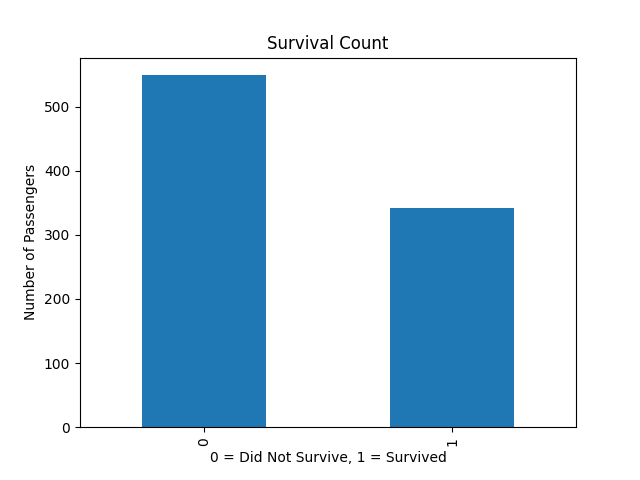
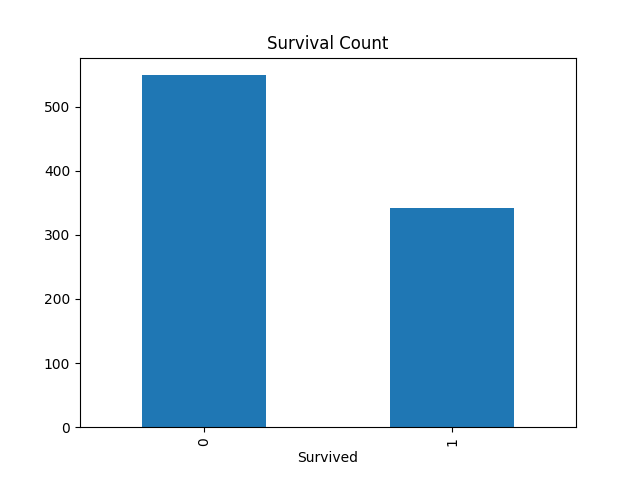
Add files via upload
Data Visualization

Changed region(s): [[0.3125, 0.9375, 0.7188, 0.9688], [0.0312, 0.3438, 0.0625, 0.6875]]

diff --git a/visualization.py b/visualization.py
@@ -1,0 +1,39 @@
+import pandas as pd
+import matplotlib.pyplot as plt
+
+data = pd.read_csv("titanic.csv")
+
+# Survival Count
+data["Survived"].value_counts().plot(kind="bar")
+plt.title("Survival Count")
+plt.savefig("survival_count.png")
+plt.show()
+# Survival Rate by Gender
+gender_survival = data.groupby("Sex")["Survived"].mean()
+
+gender_survival.plot(kind="bar")
+plt.title("Survival Rate by Gender")
+plt.xlabel("Gender")
+plt.ylabel("Survival Rate")
+
+plt.savefig("gender_survival.png")
+plt.show()
+# Survival Rate by Passenger Class
+class_survival = data.groupby("Pclass")["Survived"].mean()
+
+class_survival.plot(kind="bar")
+plt.title("Survival Rate by Passenger Class")
+plt.xlabel("Passenger Class")
+plt.ylabel("Survival Rate")
+
+plt.savefig("class_survival.png")
+plt.show()
+# Age Distribution
+data["Age"].hist(bins=20)
+
+plt.title("Age Distribution")
+plt.xlabel("Age")
+plt.ylabel("Number of Passengers")
+
+plt.savefig("age_distribution.png")
+plt.show()

diff --git a/README.md b/README.md
@@ -1,0 +1,14 @@
+ Titanic Data Visualization
+
+This project visualizes the Titanic dataset using Python and Matplotlib.
+
+Visualizations:
+1. Survival Count
+2. Survival Rate by Gender
+3. Survival Rate by Passenger Class
+4. Age Distribution
+
+Tools Used:
+- Python
+- Pandas
+- Matplotlib